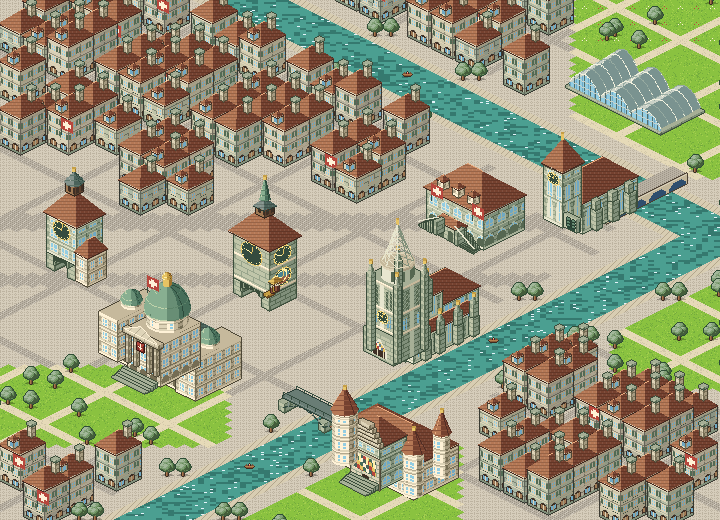
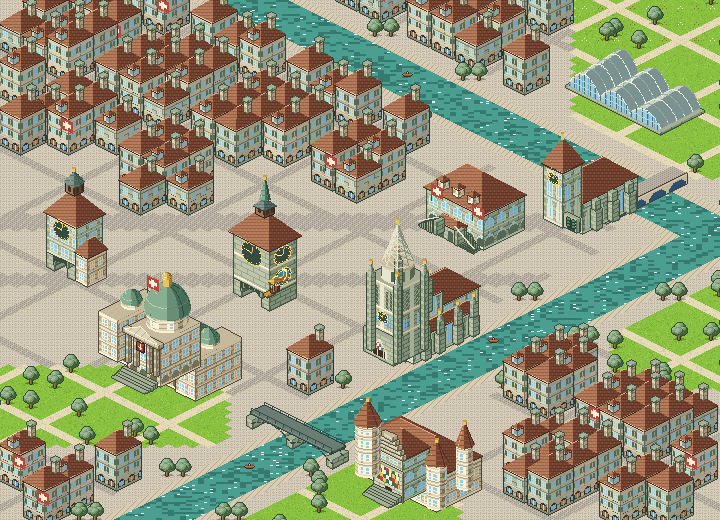
updated locations for capitals

Changed region(s): [[0.3361, 0.6154, 0.7333, 0.9846]]

diff --git a/scripts/art/capital_sites.py b/scripts/art/capital_sites.py
@@ -1,0 +1,234 @@
+"""Real coordinates of the landmarks in the capitals built before SITES tables existed.
+
+check_capital.py reads this when a landmark module has no SITES table, so placement (real east/west
+and north/south order) is checked for every capital. Keys are the landmark builder functions.
+
+Sources, checked 21 November 2026: "plan" is the coordinate researched when the capital was built
+(DEVELOPMENT_PLAN.md, Phase 4), confirmed by English Wikipedia within 150 m (or, for large sites
+such as Nyhavn, Suomenlinna and the Belvedere, within 600 m) or by an OpenStreetMap search where
+Wikipedia gives none; "wiki+osm" is the midpoint of Wikipedia and OpenStreetMap, which agree within
+165 m (Lisbon, Madrid and Paris, built before the plan kept coordinate tables); "osm" is
+OpenStreetMap alone, where Wikipedia gives no coordinate; "wiki" is Wikipedia alone (Nyhavn, a
+450 m canal: its midpoint rather than its west end).
+"""
+
+# capital id -> landmark builder name -> (longitude, latitude, source)
+SITES = {
+    "lisbon": {
+        "castelo_sao_jorge": (-9.133547, 38.713907, "wiki+osm"),
+        "se_lisboa": (-9.132928, 38.70977, "wiki+osm"),
+        "arco_rua_augusta": (-9.136808, 38.708422, "wiki+osm"),
+        "torre_belem": (-9.21602, 38.691626, "wiki+osm"),
+    },
+    "madrid": {
+        "palacio_real": (-3.713894, 40.417398, "wiki+osm"),
+        "almudena": (-3.714573, 40.415648, "wiki+osm"),
+        "plaza_mayor": (-3.707194, 40.415379, "wiki+osm"),
+        "casa_correos": (-3.703619, 40.41637, "wiki+osm"),
+        "metropolis": (-3.697386, 40.418766, "osm"),
+        "cibeles": (-3.693149, 40.419251, "wiki+osm"),
+        "puerta_alcala": (-3.688808, 40.419992, "wiki+osm"),
+        "alfonso_xii": (-3.683063, 40.417322, "wiki+osm"),
+        "palacio_cristal": (-3.68206, 40.413577, "wiki+osm"),
+    },
+    "paris": {
+        "sacre_coeur": (2.343015, 48.886806, "osm"),
+        "louvre": (2.336914, 48.861124, "wiki+osm"),
+        "obelisk": (2.321121, 48.865516, "wiki+osm"),
+        "arc_de_triomphe": (2.295032, 48.873778, "wiki+osm"),
+        "eiffel_tower": (2.2945, 48.858241, "wiki+osm"),
+        "notre_dame": (2.350025, 48.852996, "wiki+osm"),
+    },
+    "berlin": {
+        "reichstag": (13.3762, 52.5186, "plan"),
+        "brandenburg_gate": (13.3777, 52.5163, "plan"),
+        "berlin_cathedral": (13.401, 52.5191, "plan"),
+        "rotes_rathaus": (13.4083, 52.5186, "plan"),
+        "konzerthaus": (13.3927, 52.5136, "plan"),
+        "victory_column": (13.3501, 52.5145, "plan"),
+        "tv_tower": (13.4094, 52.5208, "plan"),
+    },
+    "amsterdam": {
+        "centraal_station": (4.9, 52.3783, "plan"),
+        "anne_frank_house": (4.8843, 52.3752, "plan"),
+        "westerkerk": (4.8836, 52.3744, "plan"),
+        "oude_kerk": (4.898, 52.3744, "plan"),
+        "royal_palace": (4.8914, 52.3732, "plan"),
+        "nemo": (4.9124, 52.3741, "plan"),
+        "rijksmuseum": (4.8853, 52.36, "plan"),
+        "magere_brug": (4.9025, 52.3636, "plan"),
+    },
+    "brussels": {
+        "atomium": (4.34111, 50.89472, "plan"),
+        "basilica": (4.31722, 50.86667, "plan"),
+        "cathedral": (4.36028, 50.84778, "plan"),
+        "kings_house": (4.35278, 50.84694, "plan"),
+        "town_hall": (4.35167, 50.84639, "plan"),
+        "royal_palace": (4.36222, 50.84167, "plan"),
+        "cinquantenaire": (4.39278, 50.84028, "plan"),
+        "palace_of_justice": (4.35167, 50.83667, "plan"),
+    },
+    "london": {
+        "st_pauls": (-0.0983, 51.5138, "plan"),
+        "trafalgar": (-0.1281, 51.5081, "plan"),
+        "tower_of_london": (-0.0761, 51.5081, "plan"),
+        "buckingham_palace": (-0.1419, 51.5014, "plan"),
+        "london_eye": (-0.1194, 51.5033, "plan"),
+        "parliament": (-0.1247, 51.4992, "plan"),
+        "westminster_abbey": (-0.1275, 51.4994, "plan"),
+        "tower_bridge": (-0.0753, 51.5056, "plan"),
+    },
+    "dublin": {
+        "gpo": (-6.2613, 53.3494, "plan"),
+        "custom_house": (-6.2531, 53.3485, "plan"),
+        "four_courts": (-6.2737, 53.3457, "plan"),
+        "hapenny_bridge": (-6.2633, 53.3462, "plan"),
+        "christ_church": (-6.2714, 53.3431, "plan"),
+        "dublin_castle": (-6.2675, 53.3429, "plan"),
+        "trinity": (-6.2573, 53.3439, "plan"),
+        "st_patricks": (-6.2715, 53.3394, "plan"),
+    },
+    "rome": {
+        "st_peters": (12.4534, 41.9022, "plan"),
+        "castel_santangelo": (12.4663, 41.9031, "plan"),
+        "spanish_steps": (12.4823, 41.9058, "plan"),
+        "trevi": (12.4833, 41.9009, "plan"),
+        "navona": (12.4731, 41.8992, "plan"),
+        "pantheon": (12.4769, 41.8986, "plan"),
+        "vittoriano": (12.4827, 41.8946, "plan"),
+        "colosseum": (12.4922, 41.8902, "plan"),
+    },
+    "copenhagen": {
+        "little_mermaid": (12.599, 55.6928, "plan"),
+        "rosenborg": (12.5774, 55.6858, "plan"),
+        "marble_church": (12.5894, 55.6847, "plan"),
+        "amalienborg": (12.5925, 55.6844, "plan"),
+        "round_tower": (12.5757, 55.6813, "plan"),
+        "nyhavn": (12.590556, 55.679722, "wiki"),  # the canal's midpoint; the plan gives its west end
+        "christiansborg": (12.579, 55.6757, "plan"),
+        "city_hall": (12.5701, 55.6753, "plan"),
+        "our_saviour": (12.5938, 55.6726, "plan"),
+    },
+    "stockholm": {
+        "nordiska": (18.0933, 59.3292, "plan"),
+        "nationalmuseum": (18.0781, 59.3286, "plan"),
+        "vasa_museum": (18.0914, 59.3279, "plan"),
+        "city_hall": (18.055, 59.3275, "plan"),
+        "royal_palace": (18.0717, 59.3269, "plan"),
+        "storkyrkan": (18.0706, 59.3258, "plan"),
+        "riddarholmen": (18.0647, 59.3247, "plan"),
+        "german_church": (18.0717, 59.3242, "plan"),
+    },
+    "oslo": {
+        "royal_palace": (10.7275, 59.9172, "plan"),
+        "national_theatre": (10.7344, 59.9145, "plan"),
+        "storting": (10.74, 59.9131, "plan"),
+        "cathedral": (10.7465, 59.9127, "plan"),
+        "city_hall": (10.7336, 59.9118, "plan"),
+        "akershus": (10.7361, 59.9067, "plan"),
+        "opera_house": (10.7536, 59.9069, "plan"),
+        "munch": (10.7553, 59.9058, "plan"),
+    },
+    "helsinki": {
+        "finlandia": (24.9331, 60.1758, "plan"),
+        "national_museum": (24.9294, 60.175, "plan"),
+        "parliament": (24.9333, 60.1725, "plan"),
+        "railway_station": (24.9414, 60.1719, "plan"),
+        "cathedral": (24.9522, 60.1703, "plan"),
+        "uspenski": (24.96, 60.1683, "plan"),
+        "market_hall": (24.9528, 60.1661, "plan"),
+        "suomenlinna": (24.99, 60.14, "plan"),
+    },
+    "reykjavik": {
+        "harpa": (-21.9325, 64.1503, "plan"),
+        "sun_voyager": (-21.9223, 64.1476, "plan"),
+        "landakotskirkja": (-21.9485, 64.1475, "plan"),
+        "parliament": (-21.9403, 64.1467, "plan"),
+        "hofdi": (-21.9067, 64.1464, "plan"),
+        "city_hall": (-21.9422, 64.1458, "plan"),
+        "hallgrimskirkja": (-21.9266, 64.1417, "plan"),
+        "leif": (-21.9266, 64.1417, "plan"),
+        "perlan": (-21.9189, 64.1292, "plan"),
+    },
+    "bern": {
+        "paul_klee": (7.47389, 46.94917, "plan"),
+        "kafigturm": (7.44394, 46.94816, "plan"),
+        "rathaus": (7.45239, 46.94875, "plan"),
+        "nydeggkirche": (7.45736, 46.94881, "plan"),
+        "zytglogge": (7.44778, 46.94806, "plan"),
+        "minster": (7.45139, 46.94722, "plan"),
+        "federal_palace": (7.44417, 46.94667, "plan"),
+        "historical_museum": (7.44917, 46.94306, "plan"),
+        "kirchenfeld_bridge": (7.44866, 46.9454, "osm"),
+    },
+    "vienna": {
+        "riesenrad": (16.3959, 48.2167, "plan"),
+        "rathaus": (16.3578, 48.2108, "plan"),
+        "stephansdom": (16.3731, 48.2085, "plan"),
+        "hofburg": (16.3651, 48.2055, "plan"),
+        "opera": (16.36919, 48.20329, "osm"),
+        "karlskirche": (16.3713, 48.1983, "plan"),
+        "belvedere": (16.3809, 48.1916, "plan"),
+        "schonbrunn": (16.3122, 48.1845, "plan"),
+    },
+    "valletta": {
+        "fort_st_elmo": (14.5188, 35.902, "plan"),
+        "st_paul": (14.511528, 35.900333, "plan"),
+        "carmelite": (14.512278, 35.900194, "plan"),
+        "grandmaster": (14.51417, 35.89861, "plan"),
+        "st_john": (14.51278, 35.89778, "plan"),
+        "parliament": (14.50972, 35.89611, "plan"),
+        "castille": (14.51139, 35.89583, "plan"),
+        "upper_barrakka": (14.51222, 35.89472, "plan"),
+    },
+    "prague": {
+        "prague_castle": (14.40056, 50.09083, "plan"),
+        "st_nicholas": (14.4032, 50.088, "plan"),
+        "charles_bridge": (14.41194, 50.08639, "plan"),
+        "old_town_hall": (14.4207, 50.0871, "plan"),
+        "tyn_church": (14.4227, 50.0876, "plan"),
+        "powder_gate": (14.4278, 50.0872, "plan"),
+        "national_theatre": (14.41361, 50.08111, "plan"),
+        "dancing_house": (14.41417, 50.07556, "plan"),
+    },
+    "warsaw": {
+        "barbican": (21.01, 52.25056, "plan"),
+        "old_town_square": (21.0122, 52.2497, "plan"),
+        "st_john": (21.01361, 52.24889, "plan"),
+        "royal_castle": (21.0142, 52.2478, "plan"),
+        "culture_palace": (21.00639, 52.23167, "plan"),
+        "palace_isle": (21.03582, 52.21512, "plan"),
+        "chopin_monument": (21.02806, 52.21472, "plan"),
+        "wilanow": (21.09028, 52.16528, "plan"),
+    },
+    "luxembourg": {
+        "philharmonie": (6.142222, 49.618333, "plan"),
+        "mudam": (6.139722, 49.617086, "plan"),
+        "bock": (6.136944, 49.611667, "plan"),
+        "palace": (6.132833, 49.610889, "plan"),
+        "abbey": (6.136389, 49.610278, "plan"),
+        "cathedral": (6.131556, 49.609667, "plan"),
+        "gelle_fra": (6.128889, 49.609444, "plan"),
+        "adolphe_bridge": (6.126944, 49.608333, "plan"),
+    },
+    "bratislava": {
+        "grassalkovich": (17.107778, 48.149167, "plan"),
+        "michael_gate": (17.10667, 48.145147, "plan"),
+        "primatial_palace": (17.10944, 48.14417, "plan"),
+        "castle": (17.1, 48.142222, "plan"),
+        "town_hall": (17.109111, 48.143889, "plan"),
+        "blue_church": (17.116833, 48.143389, "plan"),
+        "cathedral": (17.104778, 48.142139, "plan"),
+        "snp_bridge": (17.104581, 48.1384, "plan"),
+    },
+    "budapest": {
+        "szechenyi_baths": (19.081944, 47.518611, "plan"),
+        "heroes_square": (19.077778, 47.515, "plan"),
+        "parliament": (19.045556, 47.506944, "plan"),
+        "fishermans_bastion": (19.034444, 47.502778, "plan"),
+        "matthias_church": (19.034167, 47.501944, "plan"),
+        "st_stephen": (19.053889, 47.500833, "plan"),
+        "chain_bridge": (19.043611, 47.498889, "plan"),
+        "buda_castle": (19.039722, 47.496111, "plan"),
+    },
+}

diff --git a/scripts/art/build_capitals.py b/scripts/art/build_capitals.py
@@ -170,8 +170,10 @@ def lisbon():
     # The Tagus lies beyond a shoreline along the i axis (lower left); Alfama climbs to the castle
     # (upper right); the Baixa grid runs north from Praça do Comércio on the waterfront.
     shore = lambda i: 62 + 2 * math.sin(i / 9)
-    hill = (52, 18)
-    tram_path = [(46, 36), (50, 37), (53, 34), (54, 30), (54, 27), (53, 25)]
+    # Real order (DEVELOPMENT_PLAN.md, capital_sites.py): the Sé stands north-east of the Praça,
+    # below and just east of the castle hill; Belém Tower is 7 km west and 2 km south, on the river.
+    hill = (51, 19)
+    tram_path = [(49, 39), (51, 38), (53, 35), (54, 31), (54, 28), (53, 26)]
 
     def near_tram(i, j):
         return any(math.hypot(i - (a[0] + (b[0] - a[0]) * t), j - (a[1] + (b[1] - a[1]) * t)) < 1.0
@@ -188,6 +190,8 @@ def lisbon():
             kind = "calcada"  # Praça do Comércio, open to the river
         elif hill_r < 9.5:
             kind = "grass"
+        elif hill_r < 12.5 and i + j > hill[0] + hill[1] and abs(i - j - (hill[0] - hill[1])) < 12:
+            kind = "garden"  # the open slope below the castle walls, so no house hides them
         elif 35 <= i <= 43 and 19 <= j <= 23:
             kind = "calcada"  # Rossio, at the top of the Baixa
         elif near_tram(i, j) or (38 <= i <= 39 and 24 <= j < 47) or (j in (27, 32, 37, 42) and 26 <= i <= 48) \
@@ -210,17 +214,17 @@ def lisbon():
                     kinds[(a, b)] = ground
 
     lb.castelo_sao_jorge(scene, hill[0] - 5, hill[1] - 4, 14)
-    lb.se_lisboa(scene, 50, 40)
-    reserve(49, 39, 7, 11)
+    lb.se_lisboa(scene, 41, 26)
+    reserve(40, 25, 10, 15)  # the Sé and Largo da Sé in front of it
     lb.arco_rua_augusta(scene, 35.5, 46.5)
     reserve(35, 46, 8, 3)
     for k in range(3):  # yellow Pombaline arcades: west side facing the square, north beside the arch
         lb.lisbon_house(scene, 30.5, 49 + k * 3.5, 2.5, 3.5, 3, rgb("#F2C14E"), k, arcade=True)
-    for a0 in (30.5, 43.0):
+    for a0 in (30.5, 44.5):  # either side of the arch, never over it
         lb.lisbon_house(scene, a0, 46, 4.5 if a0 > 40 else 5, 2.5, 3, rgb("#F2C14E"), 7, arcade=True)
     reserve(30, 45, 19, 15)
     lb.torre_belem(scene, 27, shore(27) + 3)
-    for (a, b, along) in ((47, 35.5, False), (57.2, 30, True)):
+    for (a, b, along) in ((50, 38.5, False), (57.2, 31, True)):
         lb.tram_28(scene, a, b, along_j=along)
 
     paint_ground(scene, kinds, elev, TAGUS, lb.CASTLE["dark"])
@@ -251,11 +255,12 @@ def lisbon():
     for (i, j), kind in kinds.items():
         x, y = scene.screen(i + 0.5, j + 0.5, elev[(i, j)])
         pick = None
-        if kind == "grass" and elev[(i, j)] and h01(i, j, 21) < 0.16:
+        on_castle = hill[0] - 7 <= i <= hill[0] + 11 and hill[1] - 6 <= j <= hill[1] + 12
+        if kind == "grass" and elev[(i, j)] and h01(i, j, 21) < 0.16 and not on_castle:
             pick = pines[(i + j) % 2]
         elif kind == "quay" and i % 4 == 0:
             pick = green[i % 3]
-        elif kind == "calcada" and (i in (33, 45)) and j % 3 == 0:
+        elif kind == "calcada" and (i in (33, 45)) and j % 3 == 0 and j > 52:  # clear of the arch
             pick = jacaranda[j % 3]
         elif kind in ("lot", "garden") and (i, j) not in reserved and h01(i, j, 22) < 0.4:
             pick = (jacaranda if h01(i, j, 23) < 0.45 else green)[(i * 7 + j) % 3]
@@ -1106,11 +1111,12 @@ def london():
     landmark(lon.trafalgar, 145, 230, 8, 8, front=1, ground="quay")
     landmark(lon.tower_of_london, 600, 210, 8.5, 7, front=3)
     landmark(lon.buckingham_palace, 105, 340, 13, 6.5, front=3)
-    landmark(lon.london_eye, 445, 330, 8, 8, front=1)
+    landmark(lon.london_eye, 445, 343, 8, 8, front=1)
     landmark(lon.parliament, 415, 465, 5, 15, front=3)
     landmark(lon.westminster_abbey, 250, 400, 9, 5.5, front=2)
-    # Tower Bridge crosses the east reach squarely along j, on its real SE side of the Tower.
-    landmark(lon.tower_bridge, 635, 320, 2.8, 15, front=1)
+    # Tower Bridge crosses the east reach squarely along j, on its real SE side of the Tower and
+    # north of the London Eye (by 250 m), so it sits up the reach rather than level with the Eye.
+    landmark(lon.tower_bridge, 622, 313, 2.8, 15, front=1)
 
     # Westminster Bridge: a stone span across the western i-axis reach, north of Parliament.
     bi, bj = at(430, 380)
@@ -2022,7 +2028,7 @@ def bern():
     landmark(ch.zytglogge, 265, 295, 4.4, 3.3)
     landmark(ch.minster, 425, 335, 5.7, 9)
     landmark(ch.federal_palace, 170, 365, 12, 5.3)
-    landmark(ch.historical_museum, 395, 468, 10, 5.5)
+    landmark(ch.historical_museum, 418, 480, 10, 5.5)  # south side of Helvetiaplatz, clear of the bridge
     # Bundesplatz, Münsterplatz and the Münsterplattform stay open.
     for x, y, wi, wj in ((170, 305, 7, 5), (425, 370, 8, 3), (265, 315, 5, 3)):
         ci, cj = at(x, y)
@@ -2032,8 +2038,9 @@ def bern():
     lp.stone_bridge(scene, 49, 10, 10, width=1.8, deck=10)
     reserve(48.5, 9.5, 2.8, 11)
     # Kirchenfeld's iron bridge crosses the southern reach along +i.
-    ch.kirchenfeld_bridge(scene, 54, 62)
-    reserve(53.5, 61.5, 11, 2.8)
+    # Lands on Helvetiaplatz west of the museum, leaving the square open between them.
+    ch.kirchenfeld_bridge(scene, 54, 66)
+    reserve(53.5, 65.5, 11, 2.8)
     paint_ground(scene, {c: 'pave' if k == 'promenade' else k for c, k in kinds.items()},
                  {}, ch.WATER, ch.SAND['dark'])
 
@@ -2370,7 +2377,7 @@ def prague():
 
     # North-up geographic order, with distances compressed independently on each axis.
     landmark(cz.prague_castle, 115, 135, 13, 8)
-    landmark(cz.st_nicholas, 225, 220, 7.5, 5.2)
+    landmark(cz.st_nicholas, 246, 236, 7.5, 5.2)  # below the castle, clear of its walls
     landmark(cz.charles_bridge, 360, 365, 2.3, 14)
     landmark(cz.old_town_hall, 555, 345, 6.5, 3.6)
     landmark(cz.tyn_church, 595, 245, 6.8, 4.6)

diff --git a/scripts/art/check_capital.py b/scripts/art/check_capital.py
@@ -25,8 +25,15 @@ sys.path.insert(0, HERE)
 os.chdir(HERE)
 import iso  # noqa: E402
 import build_capitals as bc  # noqa: E402
+from capital_sites import SITES as KNOWN  # noqa: E402
 
 MIN_METRES = 120
+# Drawing functions that are part of a larger landmark, not landmarks of their own:
+# Dublin Castle draws its round Record Tower with landmarks_ireland.round_tower.
+PARTS = {('landmarks_ireland', 'round_tower')}
+# Landmarks that really stand in front of one another: Leif Erikson's statue faces Hallgrímskirkja
+# from the square right before its door.
+TOGETHER = {('reykjavik', frozenset({'hallgrimskirkja', 'leif'}))}
 # Repeated fillers that are not landmarks (and are not in SITES).
 FILLER = {'tram_28', 'tram', 'belgian_flag', 'winged_figure', 'dome', 'cathedral_roof', 'stone_bridge',
           'funicular', 'stall', 'gazebo', 'arcade', 'townhouse'}
@@ -91,7 +98,7 @@ def main():
     seen, marks = set(), []
     for modname, name, args, kw in list(calls):
         key = (name, repr(args), repr(sorted(kw.items())))
-        if key in seen or count[name] > 3 or name in FILLER:
+        if key in seen or count[name] > 3 or name in FILLER or (modname, name) in PARTS:
             continue
         seen.add(key)
         depth[0] = 1
@@ -117,6 +124,8 @@ def main():
         hidden = sum(1 for p in inside if same_px[p] != (0, 0, 0) and final[p] != same_px[p])
         left, right, bottom = box[0] - 200, box[2] - 200, box[3] - 200
         site = site_of.get((modname, name))
+        if not site and name in KNOWN.get(cap_id, {}):  # capitals built before SITES tables
+            site = (name, KNOWN[cap_id][name][:2])
         marks.append({'name': site[0] if site else name, 'real': site[1] if site else None,
                       'base': ((left + right) / 2, bottom), 'pixels': pixels, 'hidden': hidden,
                       'clipped': len(pixels) - len(inside)})
@@ -126,7 +135,7 @@ def main():
     for a in range(len(marks)):
         for c in range(a + 1, len(marks)):
             overlap = len(marks[a]['pixels'] & marks[c]['pixels'])
-            if overlap:
+            if overlap and (cap_id, frozenset({marks[a]['name'], marks[c]['name']})) not in TOGETHER:
                 failures += 1
                 print(f"  OVERLAP {marks[a]['name']} / {marks[c]['name']}: {overlap} px")
     for m in marks:

diff --git a/DEVELOPMENT_PLAN.md b/DEVELOPMENT_PLAN.md
@@ -132,6 +132,8 @@ The reference’s quest lists, avatar, XP, badges, statistics, and parchment car
 
 ## Phase 4 — Capital scenery: Lisbon first, then each country's capital
 
+**Placement audit (21 November 2026): all 44 capitals pass `check_capital.py`.** The 22 capitals built before SITES tables (Lisbon to Budapest) could not have their compass order checked. `scripts/art/capital_sites.py` now gives their 173 landmarks real coordinates: the plan's researched values confirmed by Wikipedia (within 150 m, or 600 m for large sites) or OpenStreetMap, and Wikipedia and OpenStreetMap together for Lisbon, Madrid and Paris, which had no plan table. Fixes: Lisbon's Sé moved from the riverfront to its real place north-east of the Praça do Comércio below the castle hill, with Largo da Sé, Tram 28 passing in front, the castle's slope cleared of houses and pines, and its east side back on screen; Tower Bridge moved north of the London Eye; Bern's Kirchenfeld Bridge slid along the Aare so it lands west of the Historical Museum; St Nicholas moved clear of Prague Castle; Nyhavn's coordinate taken at the canal's midpoint. Dublin's Record Tower (part of the castle) and the Leif Erikson statue in front of Hallgrímskirkja are recorded as intended overlaps. The committed PNGs of Prague, Rome, Copenhagen, Warsaw and Vilnius predated their 17 November model updates; all five were regenerated, so every shipped scene now matches its source.
+
 **Status (20 November 2026): paused after Vaduz.** No new capitals until the Phase 5 playtest (P5-08) confirms what each scene needs for gameplay. Work resumes as P8-01, with every new capital shipping its landmark data and challenges.
 
 **Liechtenstein and Vaduz (20 November 2026).** The 720×520 north-up illustration follows the Alpine Rhine along the Swiss side of the valley, turning westward as it flows north. The Old Rhine Bridge crosses from Sevelen on the west bank to Vaduz on the east bank. The valley floor stays open by the embankments, with gravel bars and fields. The centre gathers around the Städtle pedestrian street and Peter-Kaiser-Platz east of the river, below the wooded bluff. The Red House sits north of the centre in Mitteldorf, with its vineyard to the south. Vaduz Castle sits on the eastern rock spur, above every other landmark. The [Vaduz visitor map](https://www.citytrain.li/application/files/7516/7541/6071/Vaduz_Ortsplan_2022.pdf), [municipal heritage register](https://www.vaduz.li/en/living-environment/living-building/listed-buildings) and [Alpine Rhine centreline](https://www.openstreetmap.org/way/1524365679) establish the layout. The river is regulated in this reach, and the mapped reach excludes boats.
